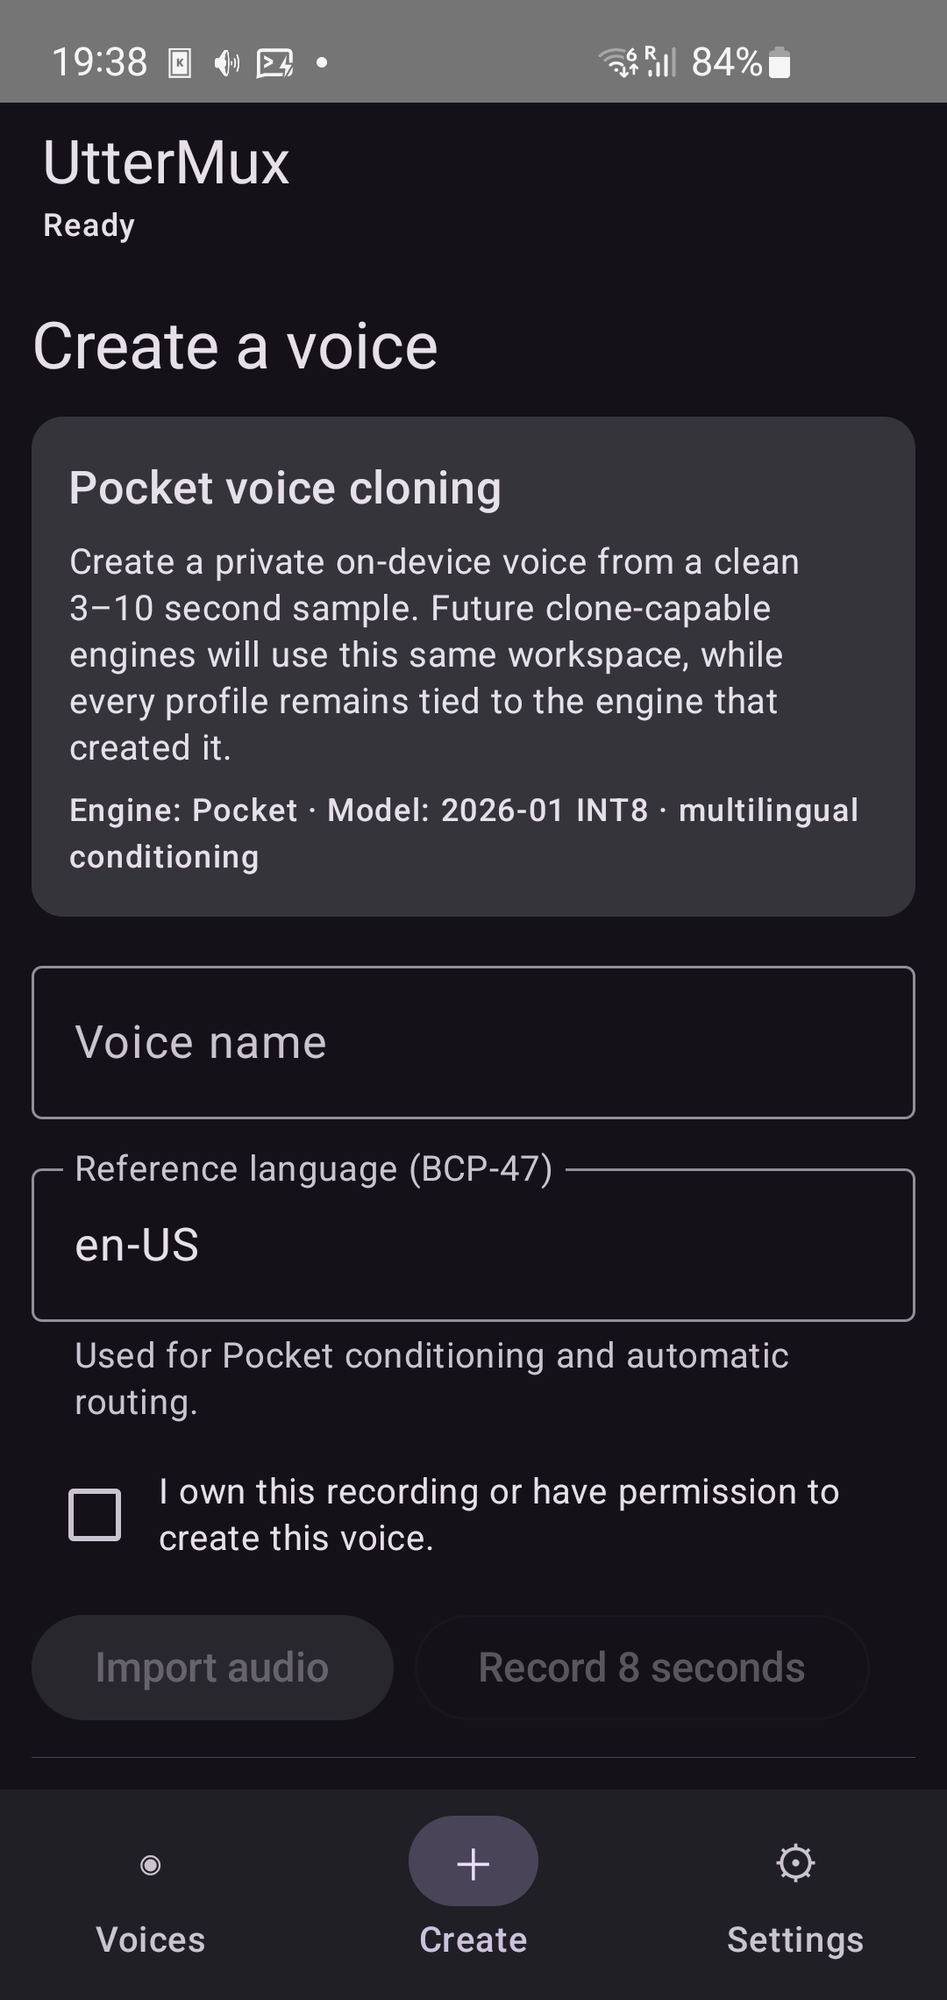
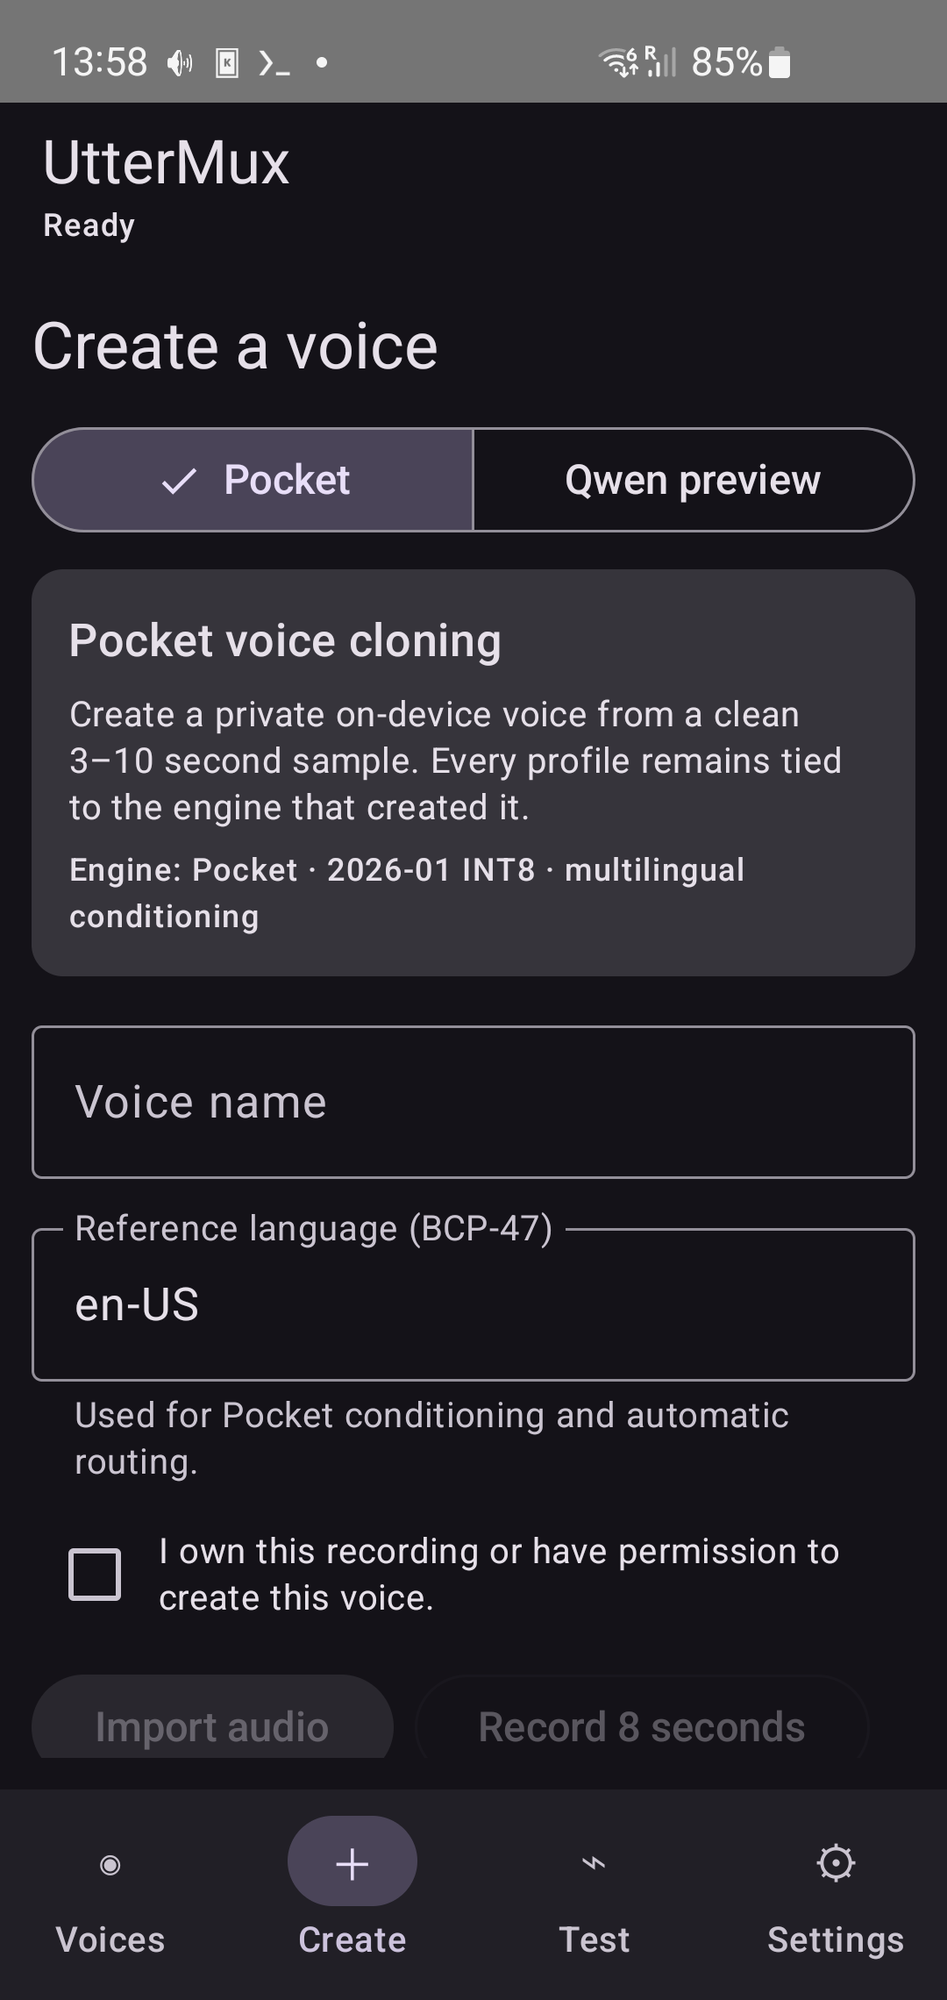
ui: move voice filters to dedicated screen

diff --git a/app/src/main/java/io/uttermux/android/MainActivity.kt b/app/src/main/java/io/uttermux/android/MainActivity.kt
@@ -3,6 +3,7 @@ package io.uttermux.android
 import android.Manifest
 import android.content.Intent
 import androidx.activity.ComponentActivity
+import androidx.activity.compose.BackHandler
 import androidx.activity.compose.setContent
 import androidx.activity.result.contract.ActivityResultContracts
 import androidx.activity.compose.rememberLauncherForActivityResult
@@ -46,13 +47,14 @@ class MainActivity:ComponentActivity(){
     }
 }
 
-private enum class Page(val label:String){VOICES("Voices"),CREATE("Create"),TUNE("Test"),SETTINGS("Settings")}
+private enum class Page(val label:String){VOICES("Voices"),FILTERS("Filters"),CREATE("Create"),TUNE("Test"),SETTINGS("Settings")}
 
 @OptIn(ExperimentalMaterial3Api::class)
 @Composable private fun UtterMuxManager(theme:String,onTheme:(String)->Unit){
     val app=UtterMuxApp.instance;val scope=rememberCoroutineScope();var page by rememberSaveable{mutableStateOf(Page.VOICES)};var revision by remember{mutableIntStateOf(0)};var status by remember{mutableStateOf("Ready")};var voiceCatalog by remember{mutableStateOf<VoiceCatalogUi?>(null)};var testArtifact by rememberSaveable{mutableStateOf("")}
     val previewState by PreviewController.state.collectAsState();val previewBusy=previewState.phase in setOf("loading","playing")
     val filters=rememberVoiceFilterState();val voiceListState=rememberLazyListState()
+    BackHandler(page==Page.FILTERS){page=Page.VOICES}
     LaunchedEffect(revision){voiceCatalog=withContext(Dispatchers.Default){buildVoiceCatalog(app)}}
     fun refresh(){scope.launch{status="Refreshing catalogs…";val errors=withContext(Dispatchers.IO){app.refreshCatalogs()};revision++;status=if(errors.isEmpty())"Catalogs refreshed" else errors.joinToString()}}
     Scaffold(topBar={TopAppBar(title={Row(verticalAlignment=Alignment.CenterVertically,horizontalArrangement=Arrangement.spacedBy(10.dp)){if(previewState.phase=="loading")CircularProgressIndicator(Modifier.size(20.dp),strokeWidth=2.dp);Column{Text("UtterMux");Text(if(previewBusy)previewState.message else status,style=MaterialTheme.typography.labelSmall)}}})},bottomBar={NavigationBar{
@@ -61,7 +63,8 @@ private enum class Page(val label:String){VOICES("Voices"),CREATE("Create"),TUNE
         NavigationBarItem(selected=page==Page.TUNE,onClick={testArtifact="";page=Page.TUNE},icon={Text("⌁")},label={Text("Test")})
         NavigationBarItem(selected=page==Page.SETTINGS,onClick={page=Page.SETTINGS},icon={Text("⚙")},label={Text("Settings")})
     }}){padding->Box(Modifier.padding(padding)){when(page){
-        Page.VOICES->VoicesPage(revision,voiceCatalog,filters,voiceListState,{revision++},{artifact->testArtifact=artifact;page=Page.TUNE},{status=it})
+        Page.VOICES->VoicesPage(revision,voiceCatalog,filters,voiceListState,{page=Page.FILTERS},{revision++},{artifact->testArtifact=artifact;page=Page.TUNE},{status=it})
+        Page.FILTERS->FilterPage(voiceCatalog,filters){page=Page.VOICES}
         Page.CREATE->CreateVoicePage(revision,{revision++},{status=it})
         Page.TUNE->BenchmarkPage(testArtifact){status=it}
         Page.SETTINGS->ModernSettingsPage(revision,theme,onTheme,{refresh()},{revision++},{status=it})
@@ -96,7 +99,7 @@ private fun buildVoiceCatalog(app:UtterMuxApp):VoiceCatalogUi {
     return VoiceCatalogUi(entries,voices,languages,libraries,models,accents,performances,genders,capabilities,app.router.effectiveDefault())
 }
 
-@Composable private fun VoicesPage(revision:Int,snapshot:VoiceCatalogUi?,filters:VoiceFilterState,listState:LazyListState,onChanged:()->Unit,onTest:(String)->Unit,onStatus:(String)->Unit){
+@Composable private fun VoicesPage(revision:Int,snapshot:VoiceCatalogUi?,filters:VoiceFilterState,listState:LazyListState,onFilters:()->Unit,onChanged:()->Unit,onTest:(String)->Unit,onStatus:(String)->Unit){
     val app=UtterMuxApp.instance
     var defaultVoice by rememberSaveable{mutableStateOf(app.settings.defaultVoice)};var shown by remember{mutableStateOf<List<VoiceSearchEntry>>(emptyList())}
     LaunchedEffect(revision){defaultVoice=app.settings.defaultVoice}
@@ -109,9 +112,7 @@ private fun buildVoiceCatalog(app:UtterMuxApp):VoiceCatalogUi {
     val selected=snapshot.entries.firstOrNull{it.voice.id==defaultVoice&&it.ready}?.voice;val effectiveDefault=selected?:snapshot.effectiveDefault
     val configuredReady=selected!=null
     val activity by VoiceActivity.state.collectAsState()
-    fun clearFilters(){filters.clear()}
     val filtersActive=listOf(filters.voiceSearch,filters.languageSearch,filters.librarySearch,filters.modelSearch,filters.accentSearch).any(String::isNotBlank)||listOf(filters.locality,filters.readiness,filters.performance,filters.gender,filters.capability,filters.cost).any{it!="all"}||filters.sort!="name"
-    val modelOptions=remember(snapshot.models,filters.librarySearch){if(filters.librarySearch.isBlank())snapshot.models else snapshot.entries.filter{it.library.contains(filters.librarySearch,true)}.map{Suggestion(it.model,it.model)}.distinctBy{it.value}.sortedBy{it.label}}
     LazyColumn(Modifier.fillMaxSize().padding(12.dp),state=listState,verticalArrangement=Arrangement.spacedBy(8.dp)){
         if(snapshot.entries.none{it.ready})item{Card{Column(Modifier.padding(16.dp),verticalArrangement=Arrangement.spacedBy(8.dp)){Text("No voice is installed or configured",style=MaterialTheme.typography.titleMedium);Text("Download an offline voice below or configure an online provider in Settings. UtterMux intentionally bundles no voice model.");Button(onClick={app.startActivity(Intent("com.android.settings.TTS_SETTINGS").addFlags(Intent.FLAG_ACTIVITY_NEW_TASK))}){Text("Android TTS settings")}}}}
         if(!configuredReady&&effectiveDefault!=null)item{Card{Text("Configured default is unavailable. Currently using ${effectiveDefault.name}; the saved preference will be restored automatically if its provider becomes available.",Modifier.padding(12.dp))}}
@@ -121,7 +122,17 @@ private fun buildVoiceCatalog(app:UtterMuxApp):VoiceCatalogUi {
             Text(when(activity.status){"speaking"->"Speaking in ${activity.language} for ${activity.client}";"warming"->"Loading voice";else->"Configured default: ${selected?.name?:app.settings.defaultVoice}"},style=MaterialTheme.typography.bodySmall)
             if(activity.fallbackReason.isNotBlank())Text(activity.fallbackReason,style=MaterialTheme.typography.labelSmall)
         }}}
-        item{Row(Modifier.fillMaxWidth(),verticalAlignment=Alignment.CenterVertically){Text("Find a voice",Modifier.weight(1f),style=MaterialTheme.typography.titleMedium);TextButton(enabled=filtersActive,onClick=::clearFilters){Text("Clear filters")}}}
+        item{Card(Modifier.fillMaxWidth()){Row(Modifier.fillMaxWidth().padding(12.dp),verticalAlignment=Alignment.CenterVertically,horizontalArrangement=Arrangement.spacedBy(8.dp)){Column(Modifier.weight(1f)){Text("Voice catalog",style=MaterialTheme.typography.titleMedium);Text(if(filtersActive)"Filters active · ${shown.size} results" else "${shown.size} voices · all locations",style=MaterialTheme.typography.bodySmall)};OutlinedButton(onClick=onFilters){Text(if(filtersActive)"Edit filters" else "Filter")}}}}
+        items(shown,key={it.voice.id}){entry->val voice=entry.voice;VoiceCard(voice,"${entry.library} · ${entry.model}",entry.ready,voice.id==(effectiveDefault?.id?:defaultVoice),{app.settings.defaultVoice=voice.id;defaultVoice=voice.id;Thread{app.router.warm(voice.id)}.start();onStatus("Default: ${voice.name}")},{onChanged()},onTest,{onStatus(it)})}
+    }
+}
+
+@Composable private fun FilterPage(snapshot:VoiceCatalogUi?,filters:VoiceFilterState,onDone:()->Unit){
+    if(snapshot==null){Box(Modifier.fillMaxSize(),contentAlignment=Alignment.Center){CircularProgressIndicator()};return}
+    val modelOptions=remember(snapshot.models,filters.librarySearch){if(filters.librarySearch.isBlank())snapshot.models else snapshot.entries.filter{it.library.contains(filters.librarySearch,true)}.map{Suggestion(it.model,it.model)}.distinctBy{it.value}.sortedBy{it.label}}
+    LazyColumn(Modifier.fillMaxSize().padding(12.dp),verticalArrangement=Arrangement.spacedBy(8.dp)){
+        item{Row(Modifier.fillMaxWidth(),verticalAlignment=Alignment.CenterVertically,horizontalArrangement=Arrangement.spacedBy(8.dp)){Text("Filter voices",Modifier.weight(1f),style=MaterialTheme.typography.headlineSmall);TextButton(onClick={filters.clear()}){Text("Clear all")}}}
+        item{Text("Choose exact fields or type a search. Results update when you return to Voices.",style=MaterialTheme.typography.bodySmall)}
         item{SuggestionSearchField("Voice or keyword",filters.voiceSearch,snapshot.voices){filters.voiceSearch=it}}
         item{SuggestionSearchField("Language",filters.languageSearch,snapshot.languages){filters.languageSearch=it}}
         item{SuggestionSearchField("Voice library",filters.librarySearch,snapshot.libraries){filters.librarySearch=it;filters.modelSearch=""}}
@@ -131,8 +142,7 @@ private fun buildVoiceCatalog(app:UtterMuxApp):VoiceCatalogUi {
         item{Row(horizontalArrangement=Arrangement.spacedBy(8.dp)){Box(Modifier.weight(1f)){Selector("Performance",filters.performance,listOf("all")+snapshot.performances){filters.performance=it}};Box(Modifier.weight(1f)){Selector("Gender",filters.gender,listOf("all")+snapshot.genders){filters.gender=it}}}}
         item{Row(horizontalArrangement=Arrangement.spacedBy(8.dp)){Box(Modifier.weight(1f)){Selector("Capability",filters.capability,listOf("all")+snapshot.capabilities){filters.capability=it}};Box(Modifier.weight(1f)){Selector("Cost",filters.cost,listOf("all","free","metered","subscription")){filters.cost=it}}}}
         item{Selector("Sort",filters.sort,listOf("name","library","smallest","fastest")){filters.sort=it}}
-        item{Text("${shown.size} of ${snapshot.entries.size} voices",style=MaterialTheme.typography.bodySmall)}
-        items(shown,key={it.voice.id}){entry->val voice=entry.voice;VoiceCard(voice,"${entry.library} · ${entry.model}",entry.ready,voice.id==(effectiveDefault?.id?:defaultVoice),{app.settings.defaultVoice=voice.id;defaultVoice=voice.id;Thread{app.router.warm(voice.id)}.start();onStatus("Default: ${voice.name}")},{onChanged()},onTest,{onStatus(it)})}
+        item{Button(onClick=onDone,modifier=Modifier.fillMaxWidth()){Text("Show voices")}}
     }
 }
 

diff --git a/app/src/main/java/io/uttermux/android/BenchmarkPage.kt b/app/src/main/java/io/uttermux/android/BenchmarkPage.kt
@@ -27,6 +27,7 @@ import java.util.concurrent.atomic.AtomicBoolean
             val fingerprint=app.models.artifactFingerprint(artifact);val effective=app.settings.effectiveThreads(artifact,fingerprint).takeIf{it>0}?:app.settings.engineThreads.takeIf{it>0};Text("Threads: ${effective?.toString()?:"automatic"} · ${app.settings.threadSource(artifact,fingerprint)}")
             if(latestWinner!=null)Text("Last result: ${latest.optString("classification")} · ${latestWinner.optInt("threads")} threads · RTF ${"%.3f".format(latestWinner.optDouble("medianRtf"))} · first PCM ${latestWinner.optDouble("medianFirstAudioMs").toInt()} ms · peak ${latestWinner.optInt("peakPssMb")} MB${latestWinner.optInt("underruns").takeIf{it>0}?.let{" · $it underruns"}.orEmpty()}",style=MaterialTheme.typography.labelSmall)
             Row(Modifier.fillMaxWidth(),horizontalArrangement=Arrangement.spacedBy(8.dp)){Button(onClick={val signal=AtomicBoolean();cancel=signal;active=artifact;scope.launch{runCatching{withContext(Dispatchers.Default){runner.run(voice,signal){message->scope.launch{progress=message}}}}.onSuccess{pending=it;progress="Review ${it.classification}: ${"%.3f".format(it.winner.medianRtf)} RTF, ${it.winner.threads} threads"}.onFailure{progress=if(it is InterruptedException)"Benchmark cancelled" else "Benchmark failed: ${it.message}"};active=null;cancel=null;revision++}},modifier=Modifier.weight(1f),enabled=active==null){Text(if(active==artifact)"Running…" else "Benchmark")};OutlinedButton(onClick={if(previewActive)PreviewController.stop()else scope.launch{runCatching{PreviewController.play(voice.id){signal->app.router.synthesizeExact(voice.id,"UtterMux variant comparison preview.",voice.locale.toLanguageTag(),1f,signal)}}.onFailure{onStatus("Preview failed: ${it.message}")}}},modifier=Modifier.weight(1f),enabled=active==null){Text(if(previewActive)"Stop" else "Preview")}}
+            OutlinedButton(onClick={app.settings.defaultVoice=voice.id;Thread{app.router.warm(voice.id)}.start();onStatus("Active voice: ${voice.name}")},modifier=Modifier.fillMaxWidth()){Text(if(app.settings.defaultVoice==voice.id)"Active voice" else "Use as active voice")}
             TextButton(onClick={settingsOpen=!settingsOpen},modifier=Modifier.fillMaxWidth()){Text(if(settingsOpen)"Hide model settings" else "Model settings")}
             if(settingsOpen){val engine=app.models.models.firstOrNull{it.id==artifact}?.engine.orEmpty();val threadSource=app.settings.threadSource(artifact,fingerprint);val baseThreadLabel=when(threadSource){"Tuned"->"Use tuned setting — ${effective} threads";"Global default"->"Use global default — ${effective} threads";else->"Use automatic selection"};HorizontalDivider();Text("Only this downloaded artifact",style=MaterialTheme.typography.titleSmall);Text("Each row shows the effective source. Choosing an override replaces that setting only for this artifact.",style=MaterialTheme.typography.bodySmall);ModelValueSelector("CPU threads · $threadSource",app.settings.modelThreads(artifact),(0..8).toList(),baseThreadLabel,{if(it==0)baseThreadLabel else "Override — $it thread${if(it==1)"" else "s"}"}){app.settings.setModelThreads(artifact,it);app.providers.forEach{provider->provider.trimMemory()};revision++};ModelValueSelector("Generated silence · ${if(app.settings.modelSilencePercent(artifact)>=0)"Model override" else "Default"}",app.settings.modelSilencePercent(artifact),listOf(-1,0,10,20,30,50,75,100),"Use default — 20%",{if(it<0)"Use default — 20%" else "Override — $it%"}){app.settings.setModelSilencePercent(artifact,it);revision++};if(engine=="pocket"){val steps=app.settings.effectivePocketSteps(artifact);ModelValueSelector("Pocket refinement · ${if(app.settings.modelPocketSteps(artifact)>0)"Model override" else "Global default"}",app.settings.modelPocketSteps(artifact),(0..5).toList(),"Use global default — ${app.settings.pocketNumSteps} steps",{if(it==0)"Use global default — ${app.settings.pocketNumSteps} steps" else "Override — $it steps"}){app.settings.setModelPocketSteps(artifact,it);app.providers.forEach{provider->provider.trimMemory()};revision++};ModelValueSelector("Decoder chunk · ${if(app.settings.modelPocketChunk(artifact)>0)"Model override" else "Automatic"}",app.settings.modelPocketChunk(artifact),(0..16).toList(),"Use automatic — ${app.settings.effectivePocketChunk(artifact,steps)}",{if(it==0)"Use automatic — ${app.settings.effectivePocketChunk(artifact,steps)}" else "Override — $it frames"}){app.settings.setModelPocketChunk(artifact,it);revision++}};if(engine=="zipvoice")ModelValueSelector("Generation steps · ${if(app.settings.modelZipSteps(artifact)>0)"Model override" else "Default"}",app.settings.modelZipSteps(artifact),(0..8).toList(),"Use default — 4 steps",{if(it==0)"Use default — 4 steps" else "Override — $it steps"}){app.settings.setModelZipSteps(artifact,it);revision++};if(app.settings.modelThreads(artifact)>0||app.settings.modelPocketSteps(artifact)>0||app.settings.modelSilencePercent(artifact)>=0||app.settings.modelPocketChunk(artifact)>0||app.settings.modelZipSteps(artifact)>0)TextButton(onClick={app.settings.resetModelOverrides(artifact);app.providers.forEach{it.trimMemory()};revision++}){Text("Reset all settings for this model")}}
             if(preview.voiceId==voice.id&&preview.phase!="idle")Row(horizontalArrangement=Arrangement.spacedBy(8.dp)){if(preview.phase=="loading")CircularProgressIndicator(Modifier.size(18.dp),strokeWidth=2.dp);Text(preview.message,style=MaterialTheme.typography.labelSmall)}

diff --git a/README.md b/README.md
@@ -4,6 +4,8 @@
 
 [![Android CI](https://github.com/anaxonda/uttermux-android/actions/workflows/android.yml/badge.svg)](https://github.com/anaxonda/uttermux-android/actions/workflows/android.yml)
 
+Linux desktop and Speech Dispatcher backend: [`anaxonda/uttermux-linux`](https://github.com/anaxonda/uttermux-linux)
+
 UtterMux is an Android system text-to-speech engine and voice manager. It gives
 Android readers one interface for local ONNX models and online providers, and
 also implements the loopback protocol used by KOReader's `TTS.koplugin`.
@@ -11,9 +13,9 @@ also implements the loopback protocol used by KOReader's `TTS.koplugin`.
 > **Status:** beta. No model weights are bundled. Local artifacts are downloaded
 > only after the user selects Install.
 
-| Voices and filters | Voice creation | Settings and providers |
-| --- | --- | --- |
-| <img src="docs/screenshots/android-voices.png" width="280" alt="UtterMux voice filters and active voice"> | <img src="docs/screenshots/android-create.png" width="280" alt="UtterMux Pocket voice creation"> | <img src="docs/screenshots/android-settings.png" width="280" alt="UtterMux settings and provider list"> |
+| Voice catalog | Dedicated filters | Voice creation | Settings and providers |
+| --- | --- | --- | --- |
+| <img src="docs/screenshots/android-voices.png" width="240" alt="UtterMux active voice and voice catalog"> | <img src="docs/screenshots/android-filters.png" width="240" alt="UtterMux dedicated voice filters"> | <img src="docs/screenshots/android-create.png" width="240" alt="UtterMux Pocket voice creation"> | <img src="docs/screenshots/android-settings.png" width="240" alt="UtterMux settings and provider list"> |
 
 ## What works
 
@@ -44,16 +46,18 @@ excluded from backup and device transfer.
 
 ## App navigation
 
-- **Voices** searches voice name, language, library, model/version, and accent;
-  filters local/cloud readiness and capability; installs, previews, and selects
-  the default voice. Searchable pickers open their list on the first tap and the
-  keyboard only on a second tap or the search icon.
+- **Voices** shows the active voice, filtered result count, and voice cards. A
+  separate **Filters** screen searches voice name, language, library,
+  model/version, and accent and filters on-device/cloud readiness, capability,
+  cost, performance, gender, and size/speed order. Searchable pickers open their
+  list before opening the keyboard.
 - **Create** records or imports a permitted reference sample for Pocket or the
   Qwen device-preview runtime, previews source and generated audio, and manages
   engine-specific private profiles.
 - **Test** previews installed local voices and benchmarks each exact model
   artifact on the current device. An installed voice card's **Test model**
-  button opens this page with that artifact first.
+  button opens this page with that artifact first. A tested voice can be made
+  active directly from the same card.
 - **Settings** contains general integration, individually expandable online
   service cards, language routing, downloaded-model storage, explained advanced
   playback controls, diagnostics, and privacy/version information.
@@ -75,7 +79,7 @@ means a reference recording must be configured before a system voice exists.
 
 | Family | Android | Linux | Current boundary |
 | --- | --- | --- | --- |
-| Piper/VITS | Yes; dynamic upstream catalog | Yes; Lessac medium in the built-in catalog | Fixed voices |
+| Piper/VITS | Yes; generated pinned catalog | Yes; generated pinned catalog | Fixed voices |
 | Inflect Nano/Micro | Nano and Micro | Nano | Fixed English voices |
 | Kitten | FP16 v0.1 and INT8 v0.8 | FP16 v0.1 and INT8 v0.8 | Fixed English voices |
 | Matcha | Yes | Yes | LJSpeech + Vocos artifact |
@@ -176,6 +180,11 @@ Families, runnable variants, voices, and artifacts are separate records, so
 Linux and Android can use different runtimes for one model family without
 presenting unsupported rows on either platform. The build validates the schema
 and requires the pinned Android Qwen device-preview variant.
+
+Cloud catalogs are different: account, region, and API changes make a committed
+voice snapshot stale. Each provider adapter discovers its live voices and
+overlays credential/readiness state at runtime. See the Linux project's
+[catalog architecture](https://github.com/anaxonda/uttermux-linux/blob/main/docs/CATALOG.md).
 
 ## Adaptive streaming
 

diff --git a/docs/F-DROID.md b/docs/F-DROID.md
@@ -29,6 +29,25 @@ the repository binaries. This is a release blocker, not a scanner exception.
 - Reproduce the signed release from the tag and archive native-library hashes.
 - Update fastlane descriptions, screenshots, changelog, and privacy policy.
 
+## Current readiness
+
+The project is **not ready for fdroiddata submission yet**. GitHub beta builds
+are suitable for testing, but the following work remains:
+
+1. Add a reproducible fdroiddata recipe that fetches the pinned sherpa-onnx and
+   ONNX Runtime sources and runs `native/build-sherpa-android.sh` (or an
+   equivalent recipe-local build) instead of packaging checked-in `.so` files.
+2. Rebuild twice in clean environments and compare the unsigned APK and native
+   library hashes; record unavoidable signing/ZIP differences separately.
+3. Run `fdroid scanner` and `fdroid build` against the public tag.
+4. Complete Fastlane store metadata: feature graphic, icon, phone screenshots,
+   per-version changelog, privacy-policy URL, and localized descriptions.
+5. Declare `NonFreeNet` because the app can connect to proprietary online TTS
+   services, even though offline local models remain available.
+6. Tag a non-beta version with a monotonically increased `versionCode` after
+   connected system-TTS, pause/resume, cancellation, and reader regression
+   tests pass on the release APK.
+
 GitHub release APKs are signed by the tag workflow using repository secrets.
 That signing key is for GitHub distribution only; F-Droid independently builds
 and signs its APK from source.

diff --git a/CHANGELOG.md b/CHANGELOG.md
@@ -1,5 +1,12 @@
 # Changelog
 
+## Unreleased
+
+- Moved voice filtering to a dedicated screen and refreshed app screenshots.
+- Added direct active-voice selection to installed-model test cards.
+- Documented shared catalog ownership, Linux interoperability, and remaining
+  F-Droid release blockers.
+
 ## 0.4.0-beta.2 - 2026-08-21
 
 - Fixed paused local streams starving subsequent voices and previews.
